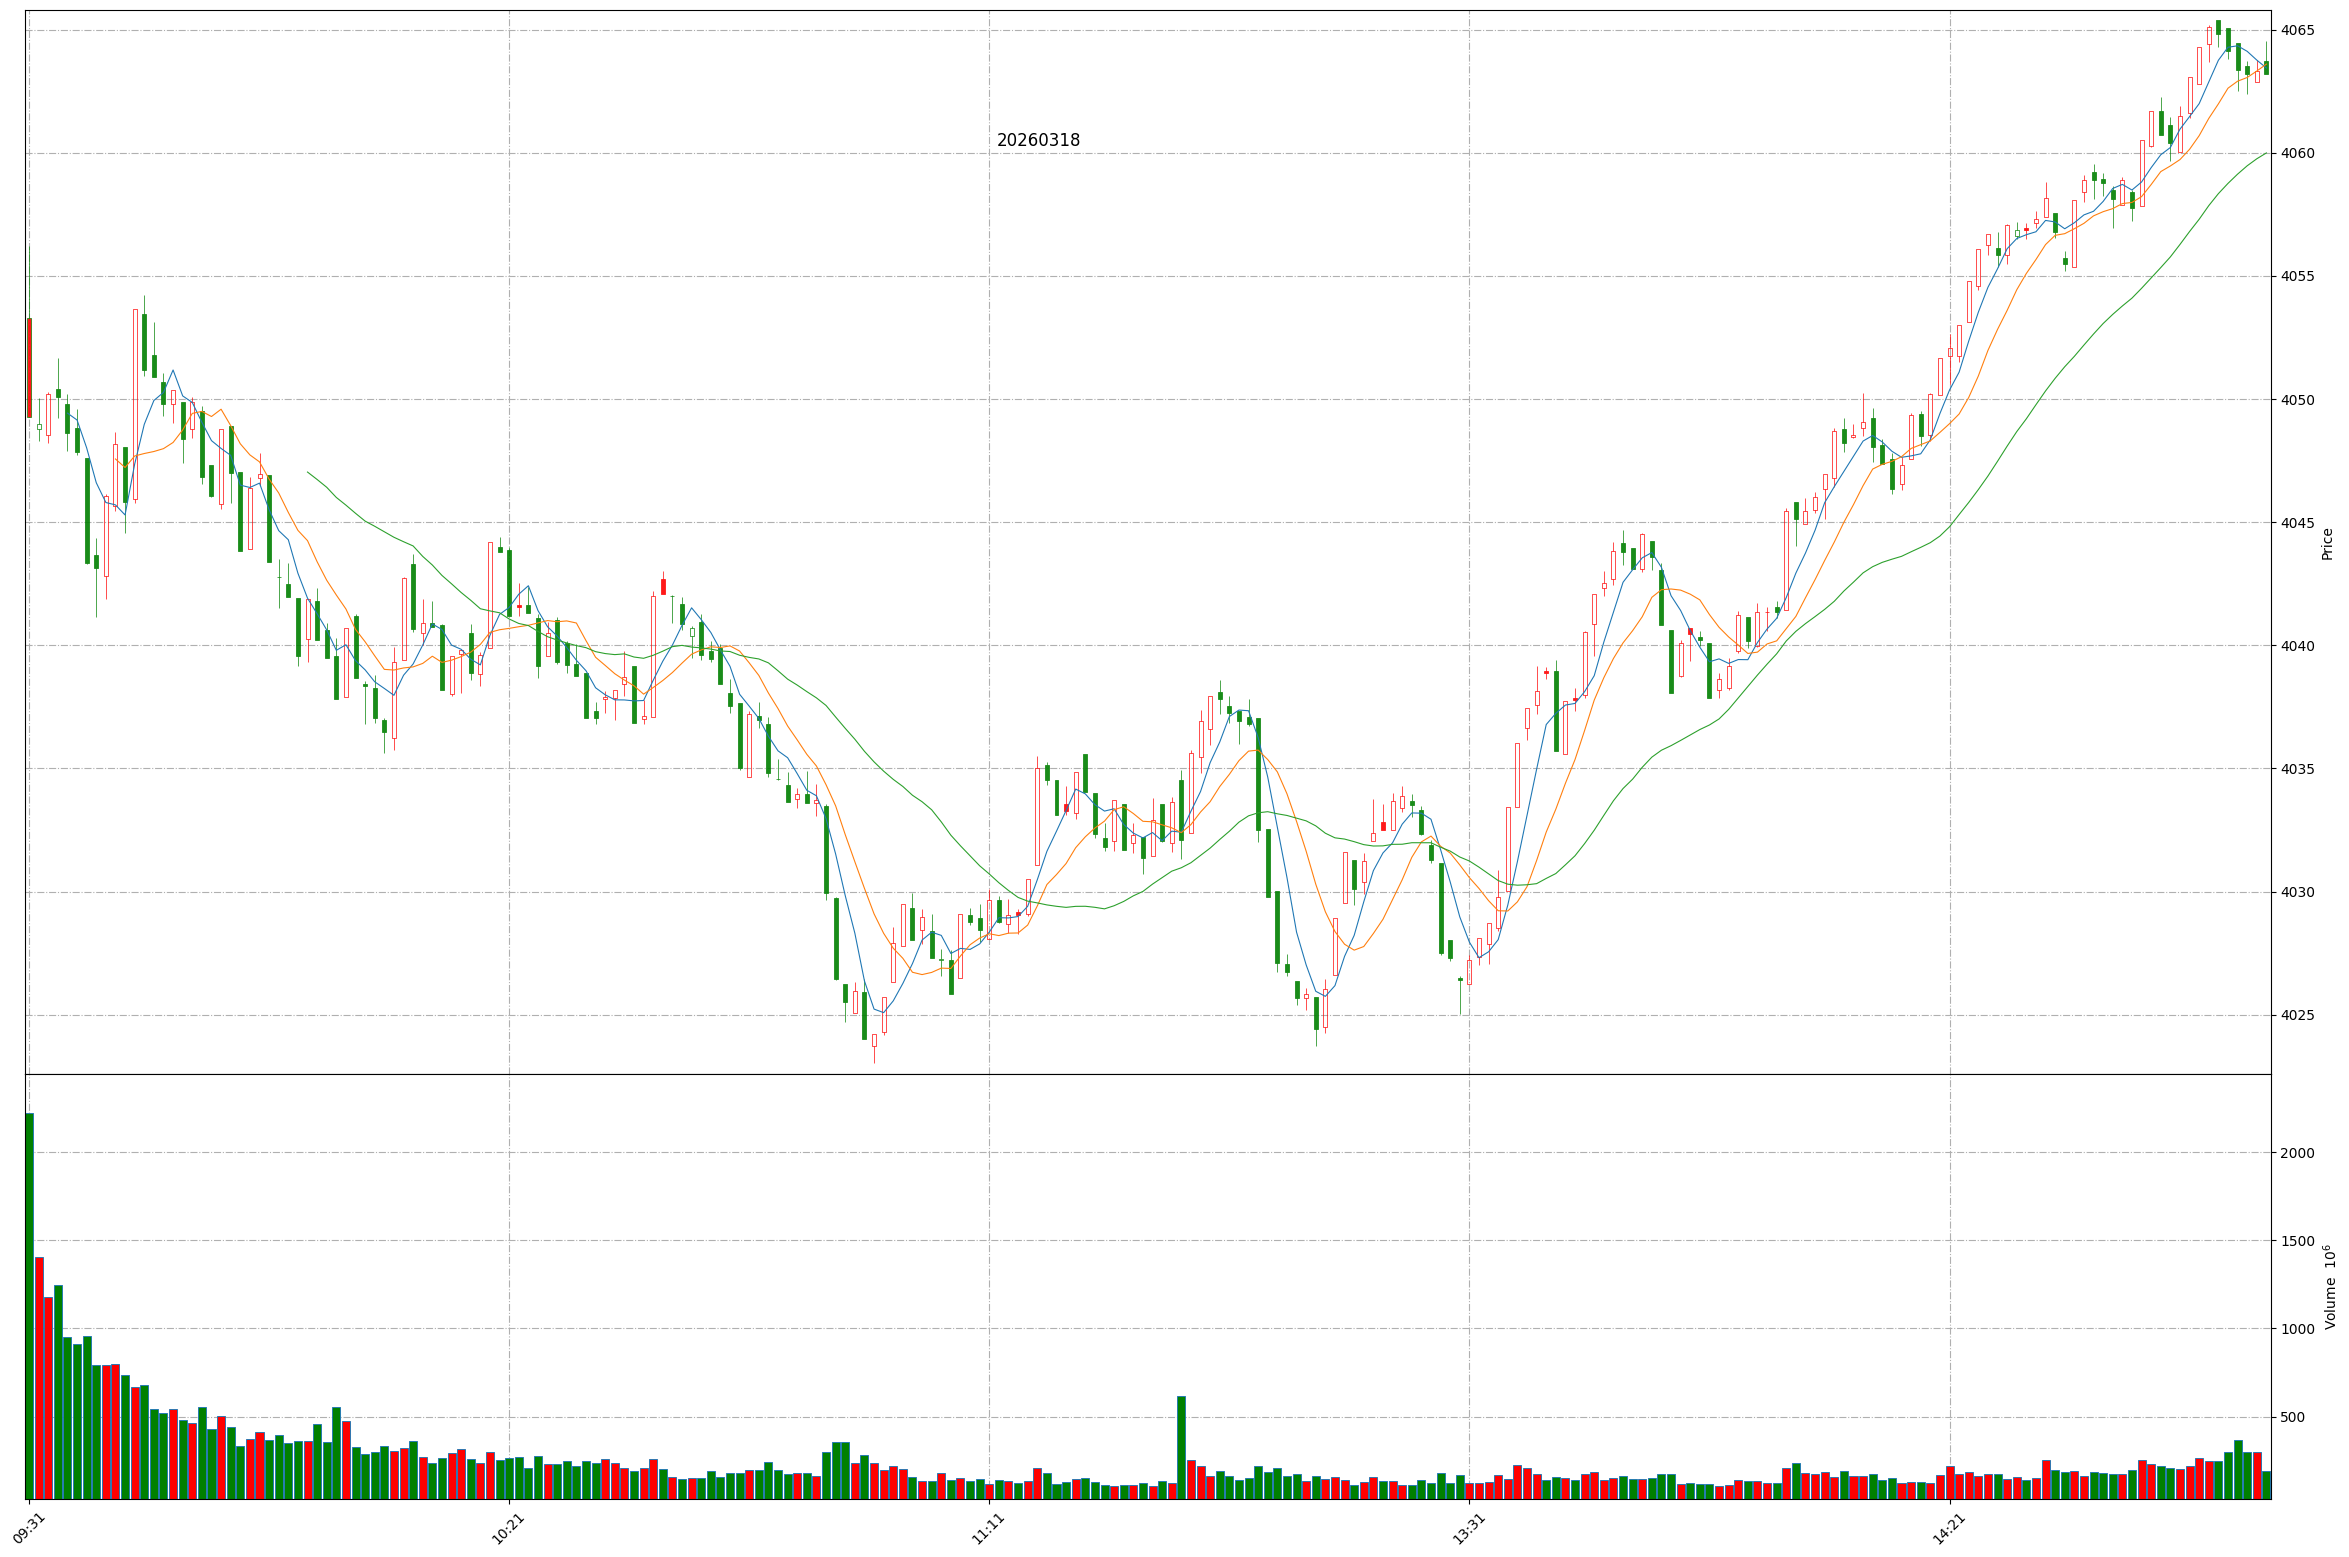
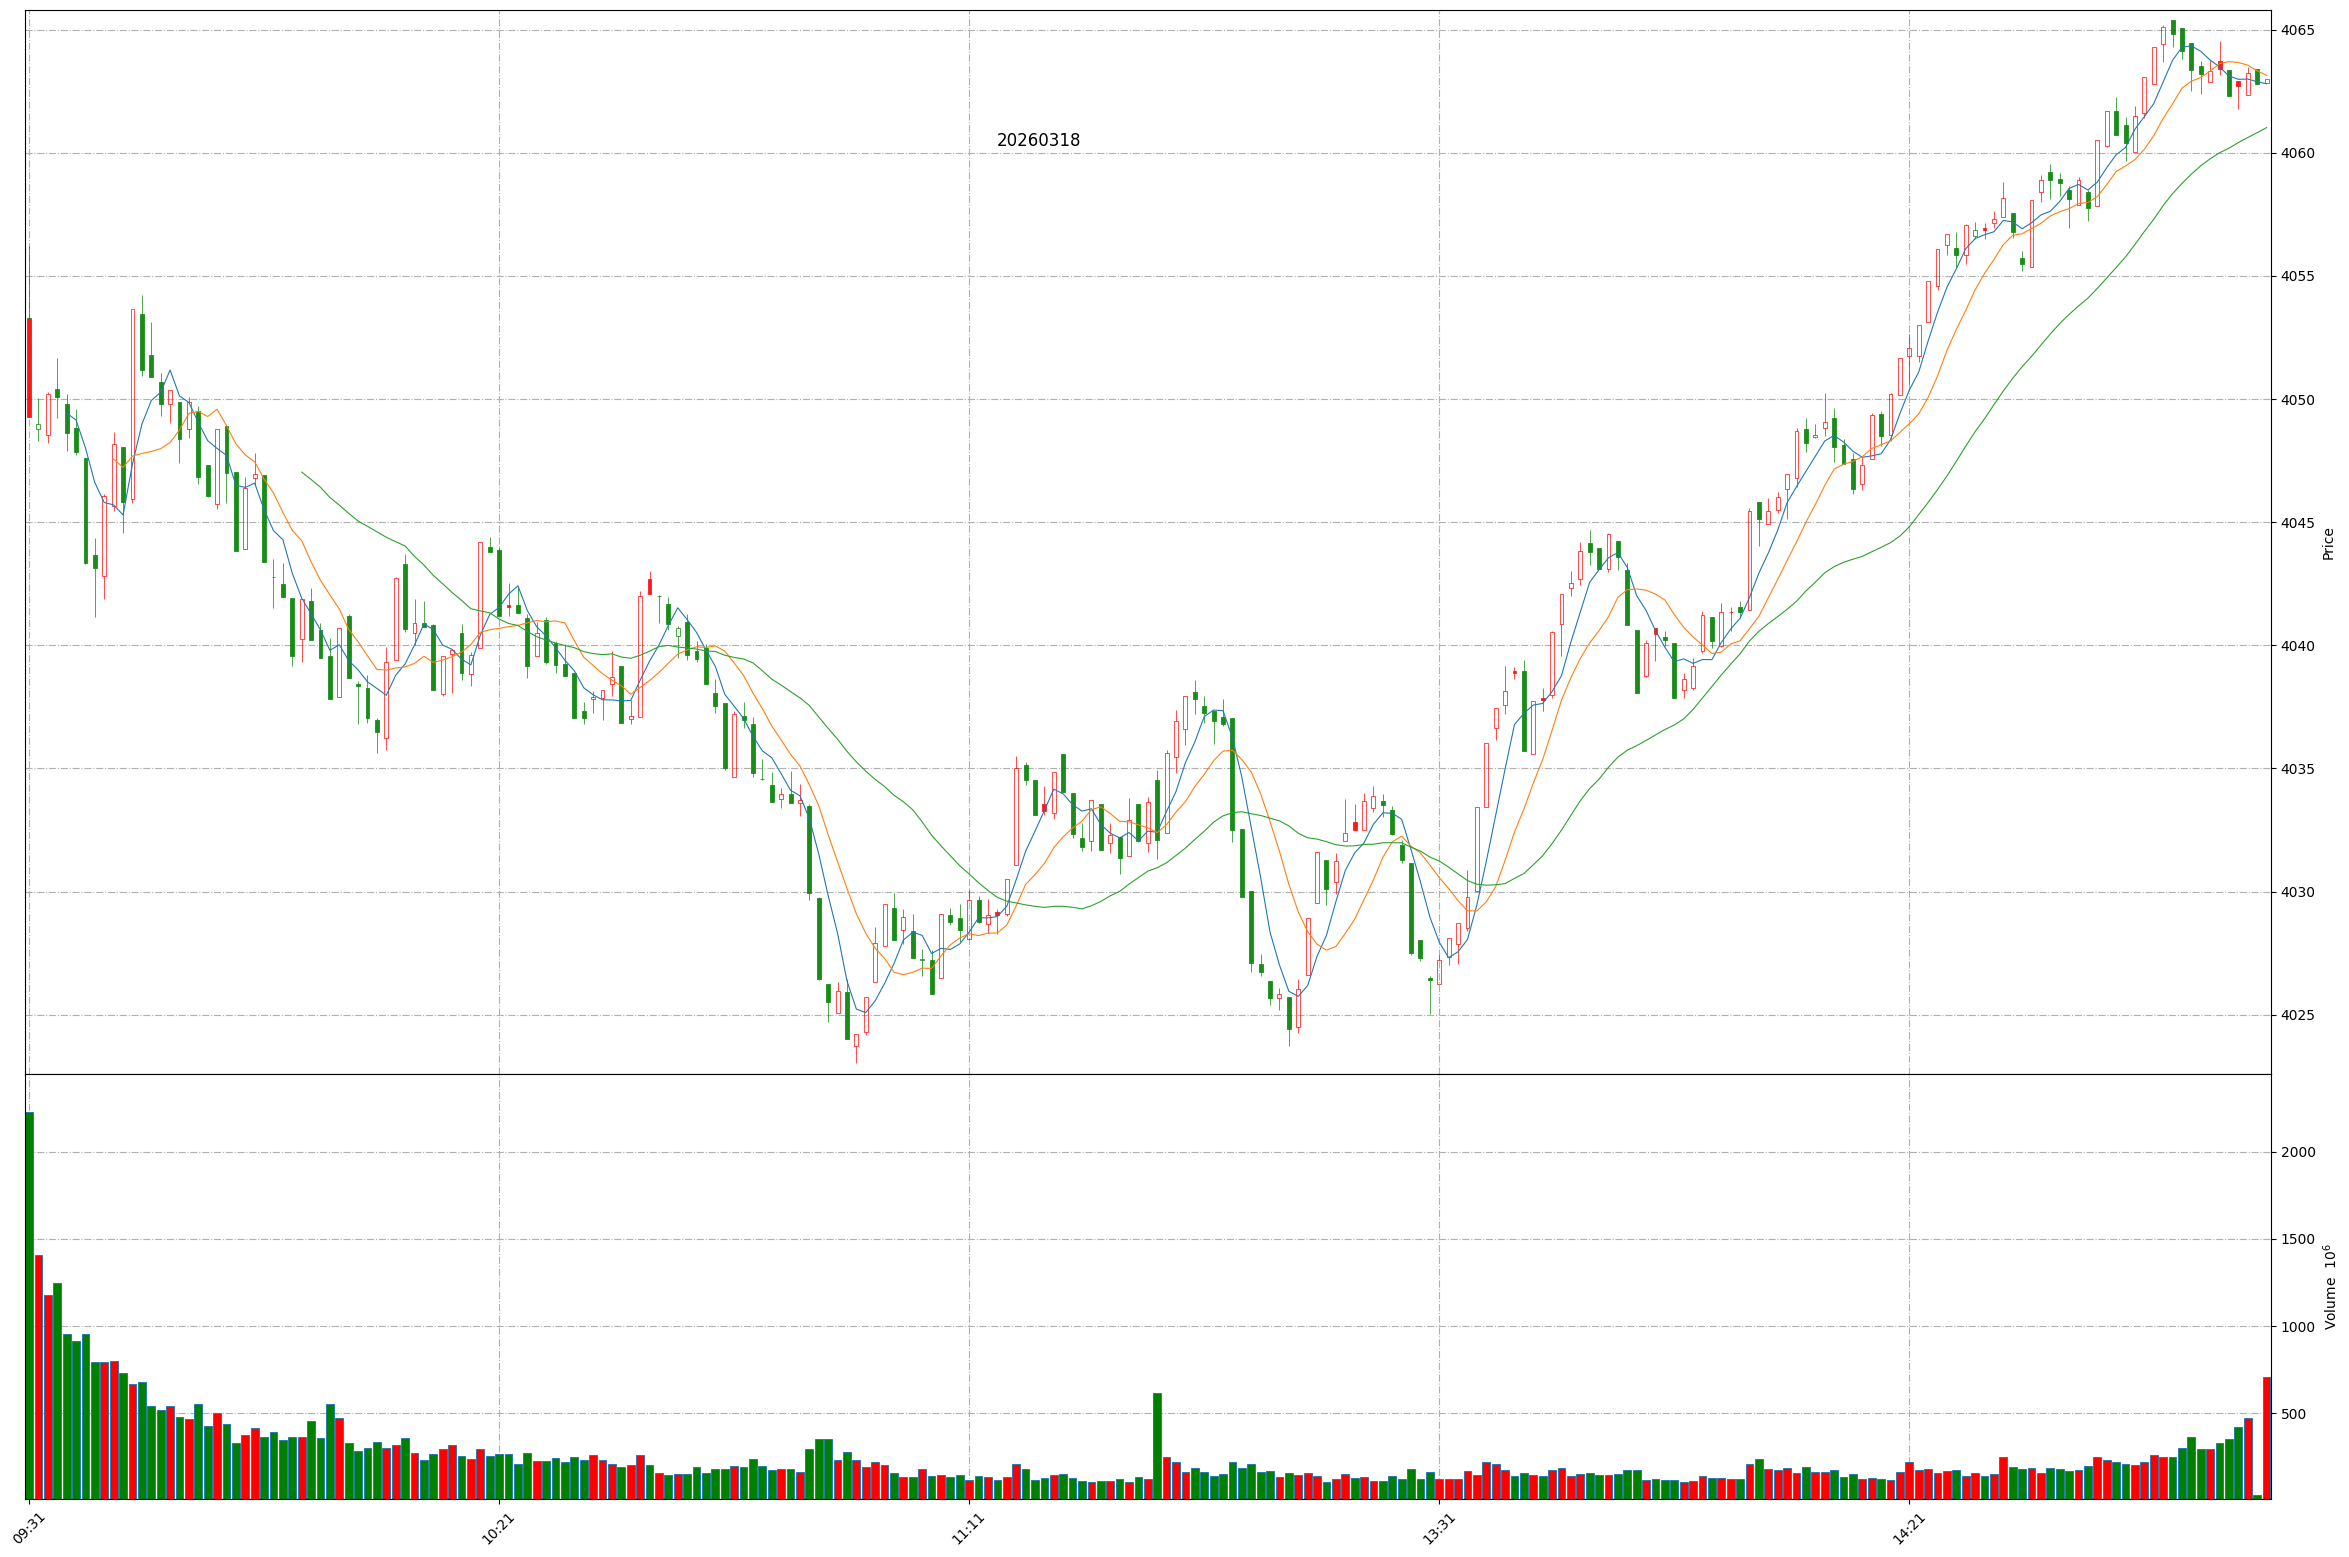
Github action update at 2026-03-18 15:02:54.

diff --git a/README.md b/README.md
@@ -1,11 +1,11 @@
 
 # Daily-A-share-market-quotes 每日 A 股指数（5min 更新）- 20260318
 
-### 上证指数 20260318 14:53
+### 上证指数 20260318 15:2
 ![](./fig/2026/3/20260318-sh000001.png)
 
-### 深证成指 20260318 14:53
+### 深证成指 20260318 15:2
 ![](./fig/2026/3/20260318-sz399001.png)
 
-### 北证50 20260318 14:53
+### 北证50 20260318 15:2
 ![](./fig/2026/3/20260318-bj899050.png)
